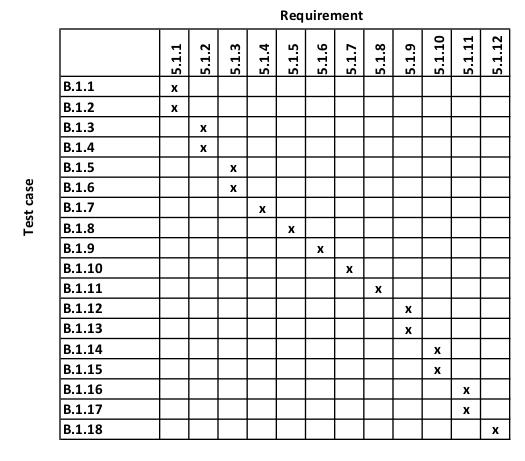
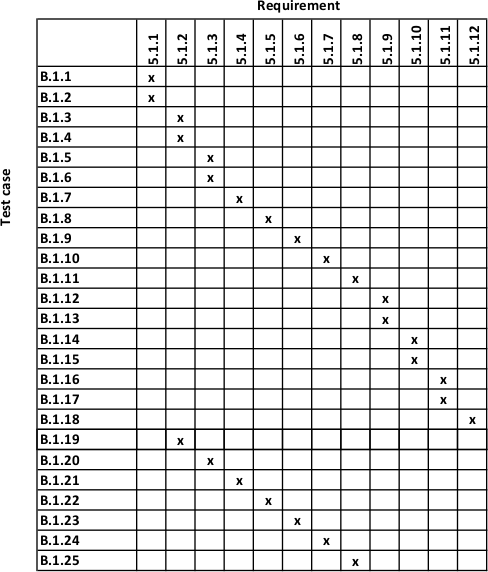
PUSS154253 v1.1: updated to version 1.2. To include tests B.1.19 through B.1.25

diff --git a/docs/SVVS/PUSS154253.tex b/docs/SVVS/PUSS154253.tex
@@ -14,7 +14,7 @@
 \usepackage[titletoc]{appendix}
 
 \title{PUSS154253}
-\newcommand{\version}{v 1.1}
+\newcommand{\version}{v 1.2}
 
 \newcommand{\SVVS}{PUSS154213}
 
@@ -37,7 +37,7 @@ Oskar Fällström %Not entirely sure who this should be, possibly project leader
 ~
 \begin{minipage}{0.4\textwidth}
 \begin{flushright}
-\title  %Dokumentnummer enl. projekthandledning s. 22-23 och insidan av pärmen
+PUSS154253 \version\  %Dokumentnummer enl. projekthandledning s. 22-23 och insidan av pärmen
 \today
 \end{flushright}
 \end{minipage}\\[3cm]
@@ -46,7 +46,7 @@ Oskar Fällström %Not entirely sure who this should be, possibly project leader
 \textsc{\LARGE Team 2}\\[0.5cm]
 
 \HRule \\[0.4cm]
-{ \huge \bfseries Test Matrices for \SVVS\ v1.1 }\\[0.4cm] % Title of your document
+{ \huge \bfseries Test Matrices for \SVVS\ }\\[0.4cm] % Title of your document
 \HRule \\[1.5cm]
 
 \vfill
@@ -72,6 +72,7 @@ Jonathan Lundholm
     \textbf{Version} 	& \textbf{Date} 	& \textbf{Responsible} 	& \textbf{Description} 		\\ \hline
     1.0				 	& 150915 			& UH 					&  Baseline. 				\\ \hline
     1.1					& 150925			& UH \& ME			&  Added test A.1.12 \\ \hline
+    1.2					& 151006			& UH 					& Added tests B.1.19-B.1.25 \\ \hline
     \end{tabular}
 \end{center}
 
